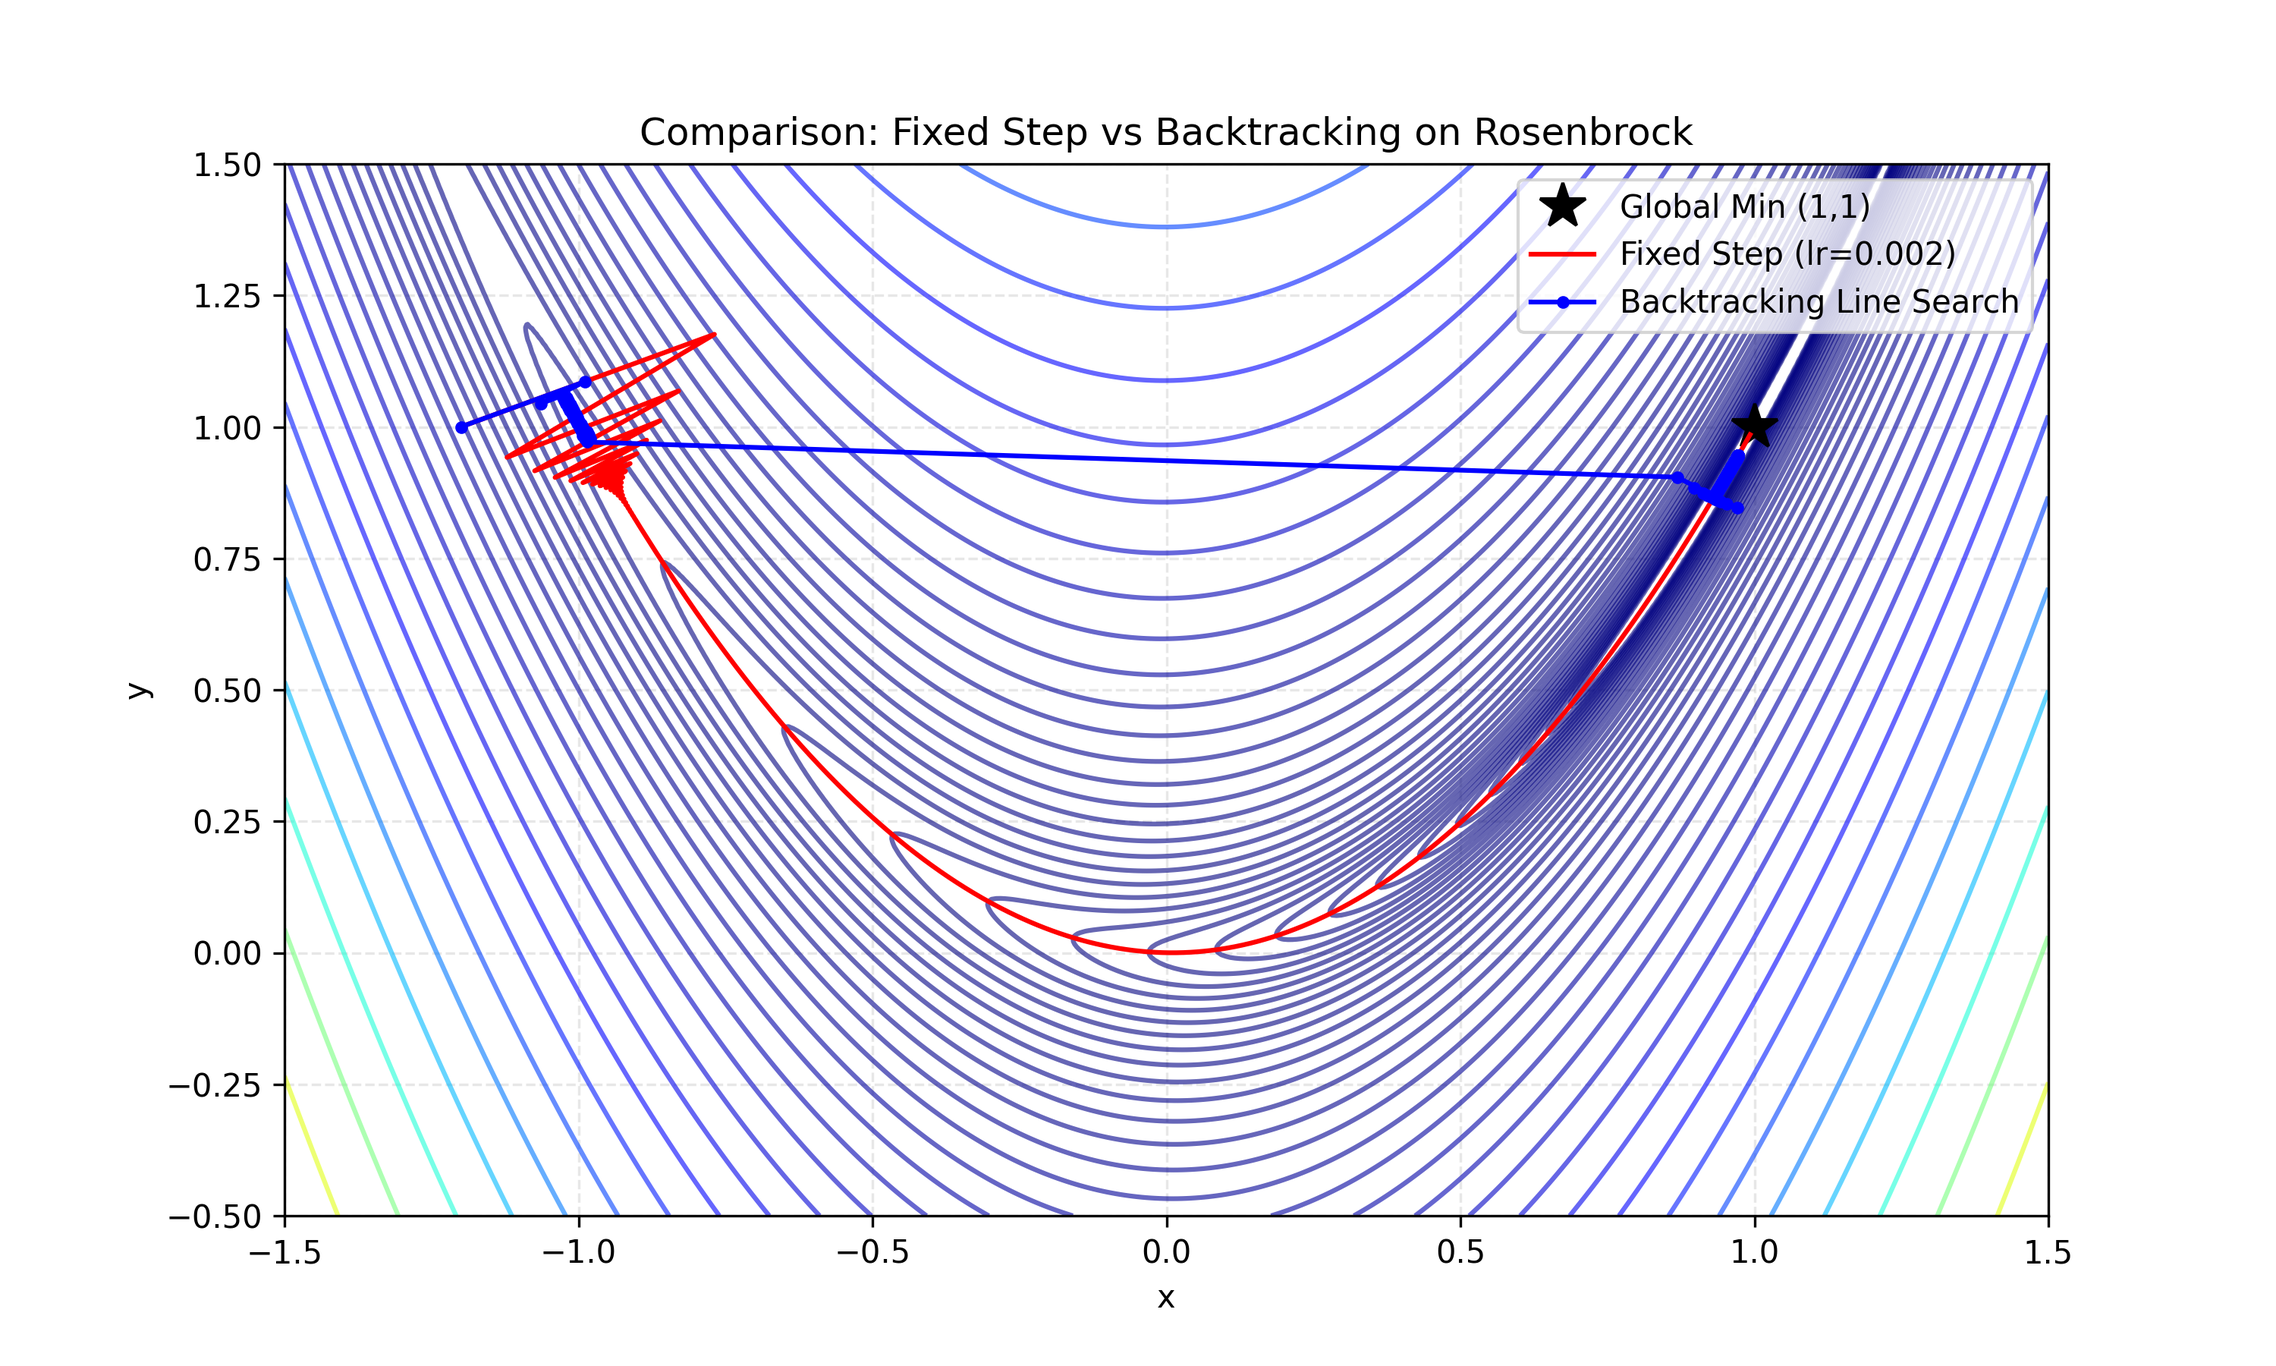
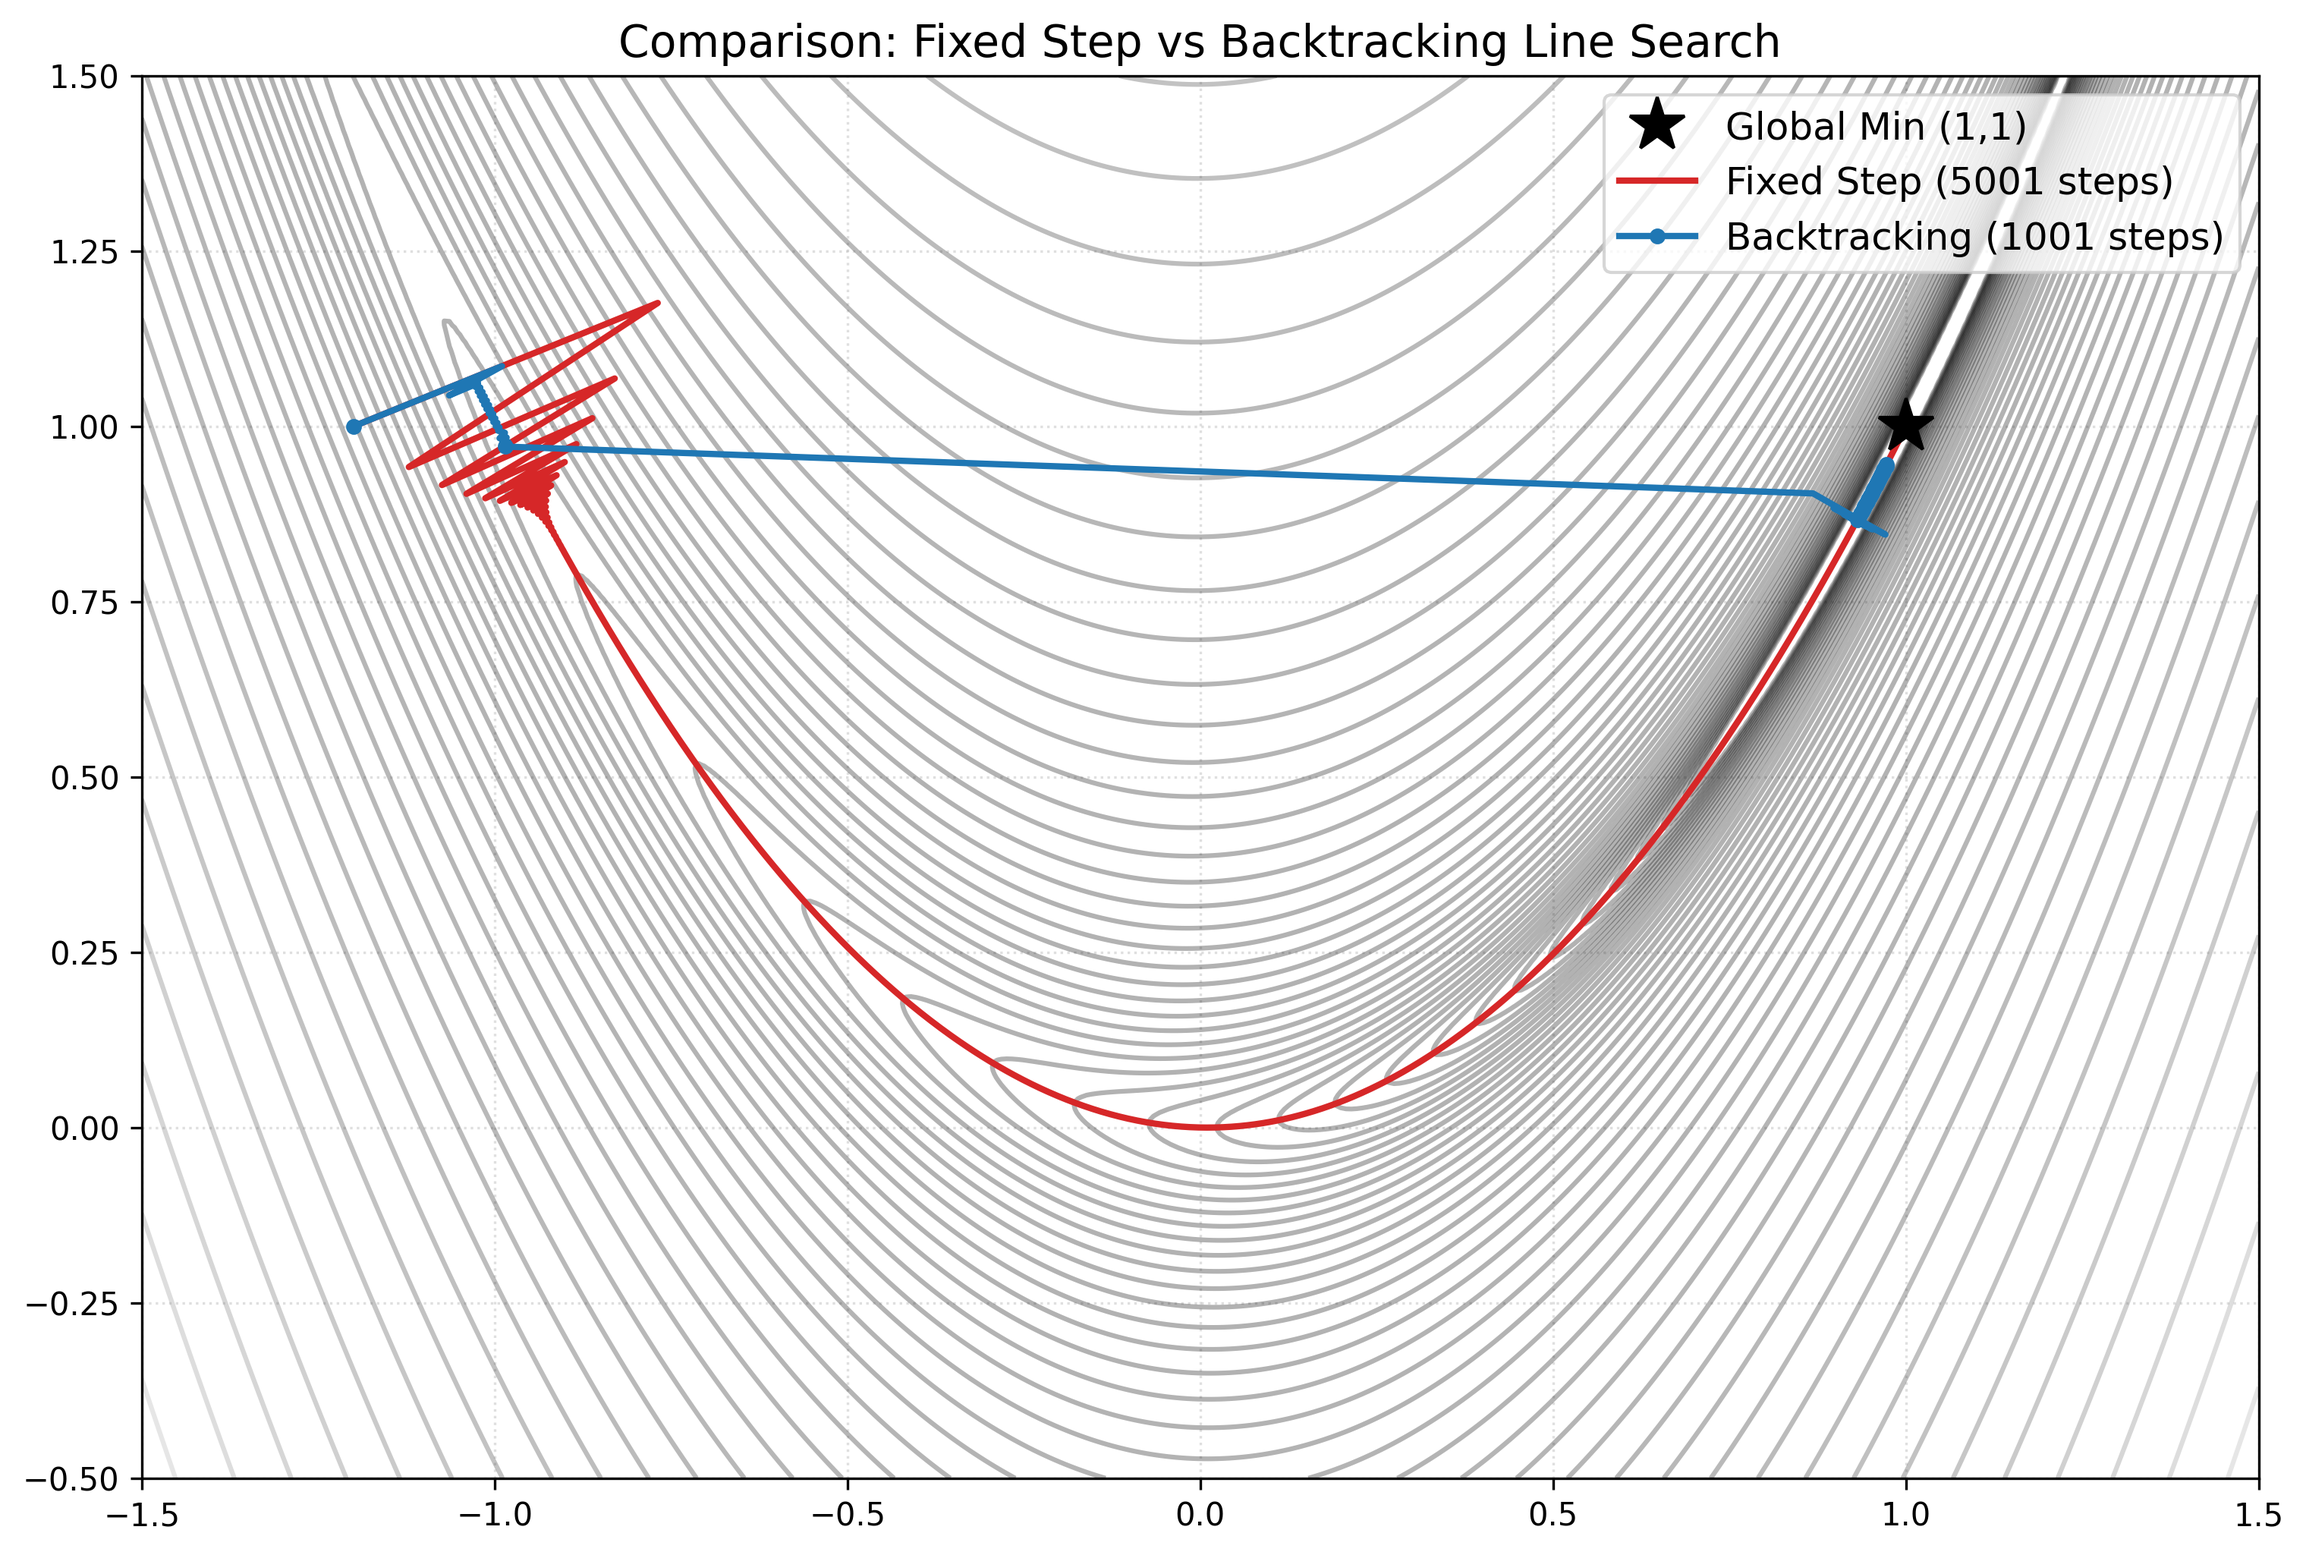
fix path problem hehe

diff --git a/src/experiment_rosenbrock.py b/src/experiment_rosenbrock.py
@@ -1,8 +1,19 @@
 import numpy as np
 import matplotlib.pyplot as plt
+import os
+import sys
+
+# --- [FIX 1] TỰ ĐỘNG SỬA LỖI IMPORT ---
+# Thêm thư mục cha (project root) vào đường dẫn tìm kiếm của Python
+# Giúp chạy file này trực tiếp mà không bị lỗi ModuleNotFoundError
+current_dir = os.path.dirname(os.path.abspath(__file__)) # Lấy đường dẫn thư mục src/
+parent_dir = os.path.dirname(current_dir)              # Lấy đường dẫn thư mục dự án
+if parent_dir not in sys.path:
+    sys.path.append(parent_dir)
+
 from src.functions import rosenbrock, rosenbrock_grad
 
-# --- Cài đặt lại GD Fixed Step & GD Backtracking riêng cho thực nghiệm này ---
+# --- Cài đặt thuật toán ---
 
 def gd_fixed_step(start_x, lr=0.002, n_iter=5000):
     path = [start_x]
@@ -18,19 +29,17 @@ def gd_backtracking(start_x, n_iter=1000):
     path = [start_x]
     x = start_x.copy()
     alpha = 1.0
-    beta = 1e-4 # Tham số trong báo cáo
-    p = 0.5     # Step reduction factor
+    beta = 1e-4
+    p = 0.5
     
     for i in range(n_iter):
         g = rosenbrock_grad(x)
         if np.linalg.norm(g) < 1e-4: break
         
-        # Backtracking Line Search logic
         d = -g
-        alpha = 1.0 # Reset alpha mỗi bước (hoặc giữ lại tùy chiến lược)
+        alpha = 1.0 # Reset alpha
         current_f = rosenbrock(x)
         
-        # Vòng lặp tìm alpha thỏa mãn Armijo
         while rosenbrock(x + alpha * d) > current_f + beta * alpha * np.dot(g, d):
             alpha *= p
             if alpha < 1e-8: break
@@ -40,43 +49,47 @@ def gd_backtracking(start_x, n_iter=1000):
     return np.array(path)
 
 def run_experiment():
-    start_point = np.array([-1.2, 1.0]) # Điểm khởi tạo theo báo cáo
-    
+    start_point = np.array([-1.2, 1.0])
     print("Đang chạy thực nghiệm...")
     
-    # 1. Chạy Fixed Step
+    # 1. Chạy thuật toán
     path_fixed = gd_fixed_step(start_point, lr=0.002)
-    print(f"- Fixed Step (lr=0.002): {len(path_fixed)} steps. Final: {path_fixed[-1]}")
+    print(f"- Fixed Step: {len(path_fixed)} steps.")
     
-    # 2. Chạy Backtracking
     path_backtrack = gd_backtracking(start_point)
-    print(f"- Backtracking: {len(path_backtrack)} steps. Final: {path_backtrack[-1]}")
+    print(f"- Backtracking: {len(path_backtrack)} steps.")
     
-    # 3. Vẽ biểu đồ (Visualization)
+    # --- [FIX 2] CẢI THIỆN BIỂU ĐỒ ---
     x = np.linspace(-1.5, 1.5, 400)
     y = np.linspace(-0.5, 1.5, 400)
     X, Y = np.meshgrid(x, y)
-    Z = (1 - X)**2 + 100 * (Y - X**2)**2 # Rosenbrock
+    Z = (1 - X)**2 + 100 * (Y - X**2)**2
 
-    plt.figure(figsize=(10, 6))
-    plt.contour(X, Y, Z, levels=np.logspace(-1, 3, 40), cmap='jet', alpha=0.6)
-    plt.plot(1, 1, 'k*', markersize=15, label='Global Min (1,1)') # Đích
+    plt.figure(figsize=(12, 8))
     
-    # Vẽ đường đi Fixed Step
-    plt.plot(path_fixed[:, 0], path_fixed[:, 1], 'r-', linewidth=1.5, label=f'Fixed Step (lr=0.002)')
+    # Dùng màu xám (gray) và làm mờ (alpha=0.3) để nền không lấn át đường đi
+    plt.contour(X, Y, Z, levels=np.logspace(-1, 3, 50), cmap='gray', alpha=0.3)
     
-    # Vẽ đường đi Backtracking
-    plt.plot(path_backtrack[:, 0], path_backtrack[:, 1], 'b-o', markersize=3, linewidth=1.5, label='Backtracking Line Search')
+    plt.plot(1, 1, 'k*', markersize=18, label='Global Min (1,1)', zorder=10)
     
-    plt.title('Comparison: Fixed Step vs Backtracking on Rosenbrock')
-    plt.xlabel('x')
-    plt.ylabel('y')
-    plt.legend()
-    plt.grid(True, linestyle='--', alpha=0.3)
+    # Đường Fixed Step: Màu ĐỎ
+    plt.plot(path_fixed[:, 0], path_fixed[:, 1], 
+             color='#D62728', linewidth=2, label=f'Fixed Step ({len(path_fixed)} steps)')
     
-    # Lưu ảnh vào thư mục report
-    save_path = 'report/images/result_experiment.png'
-    plt.savefig(save_path, dpi=300)
+    # Đường Backtracking: Màu XANH DƯƠNG (Nổi bật trên nền xám)
+    plt.plot(path_backtrack[:, 0], path_backtrack[:, 1], 
+             color='#1F77B4', linewidth=2, marker='o', markersize=4, markevery=30,
+             label=f'Backtracking ({len(path_backtrack)} steps)', zorder=5)
+    
+    plt.title('Comparison: Fixed Step vs Backtracking Line Search', fontsize=14)
+    plt.legend(fontsize=12)
+    plt.grid(True, linestyle=':', alpha=0.4)
+    
+    # Tự động tạo thư mục nếu chưa có (Tránh lỗi FileNotFoundError)
+    save_path = os.path.join(parent_dir, 'report', 'images', 'result_experiment.png')
+    os.makedirs(os.path.dirname(save_path), exist_ok=True)
+    
+    plt.savefig(save_path, dpi=300, bbox_inches='tight')
     print(f"Đã lưu ảnh kết quả tại: {save_path}")
     plt.show()
 
